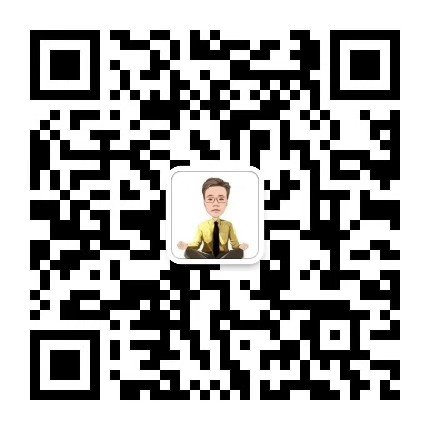
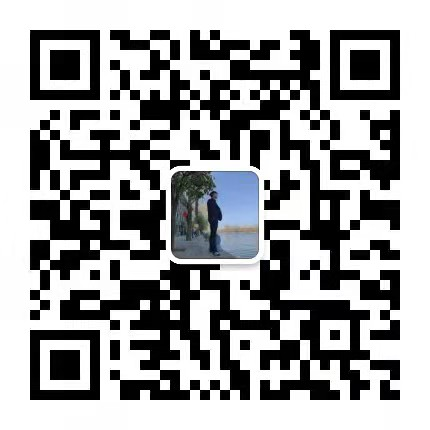
图片更新

Changed region(s): [[0.393, 0.393, 0.6047, 0.6047]]

diff --git a/README.md b/README.md
@@ -292,13 +292,14 @@
 开源不易，如果《Java 程序员进阶之路》专栏对你有些帮助，可以请二哥喝杯咖啡，算是对开源做出的一点点鼓励吧！
 
 <div align="left">
-    <img src="https://cdn.jsdelivr.net/gh/itwanger/toBeBetterJavaer/images/zhifu.png" width="260px">
+    <img src="https://cdn.jsdelivr.net/gh/itwanger/toBeBetterJavaer/images/weixin-zhifu.png" width="260px">
 </div>
 
 :gift_heart: 感谢大家对我资金的赞赏，每隔一个月会统计一次。
 
 时间|小伙伴|赞赏金额
 ---|---|---
+2022-01-28|G*R|6.6元
 2022-01-20|*光|50元
 2022-01-14|*浩|1元
 2022-01-01|马伟谊|6.6元
